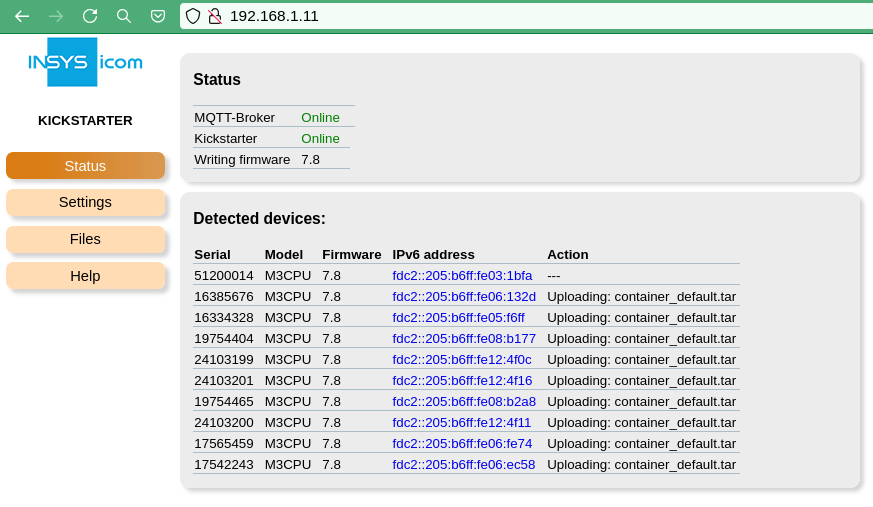
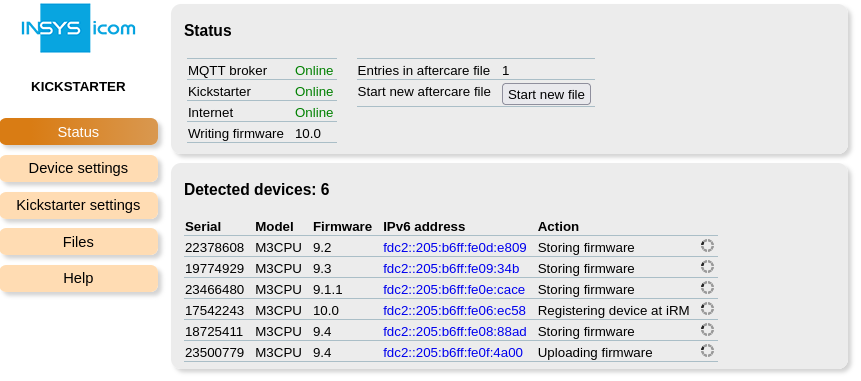
feed new firmware file to arm32 devices with firmware > 10

diff --git a/closed_packages/kickstarter/app/updater.py b/closed_packages/kickstarter/app/updater.py
@@ -156,9 +156,12 @@ class Updater(Thread):
 
         # upload firmware
         self.__message['action'] = 'Uploading firmware'
-        filename = f"autoupdate-{self.__firmware}-full.tar"
-        if self.__message['board'] == "M4CPU":
-            filename = f"autoupdate-{self.__firmware}-full.arm64.tar"
+        if float(self.__firmware) < 10:
+            filename = f"autoupdate-{self.__firmware}-full.tar"
+        else:
+            filename = f"autoupdate-{self.__firmware}-full.arm32.tar"
+            if self.__message['board'] == "M4CPU":
+                filename = f"autoupdate-{self.__firmware}-full.arm64.tar"
         response = self.__upload_file(filename, self.__dir_files, filetype="firmware")
         if response is False:
             self.__message['action'] = 'Failed to upload firmware'

diff --git a/closed_packages/kickstarter/app/downloader.py b/closed_packages/kickstarter/app/downloader.py
@@ -4,6 +4,7 @@ from tempfile import NamedTemporaryFile
 from pathlib import Path
 from time import sleep, monotonic
 from hashlib import sha256
+
 from urllib3 import disable_warnings
 import requests
 
